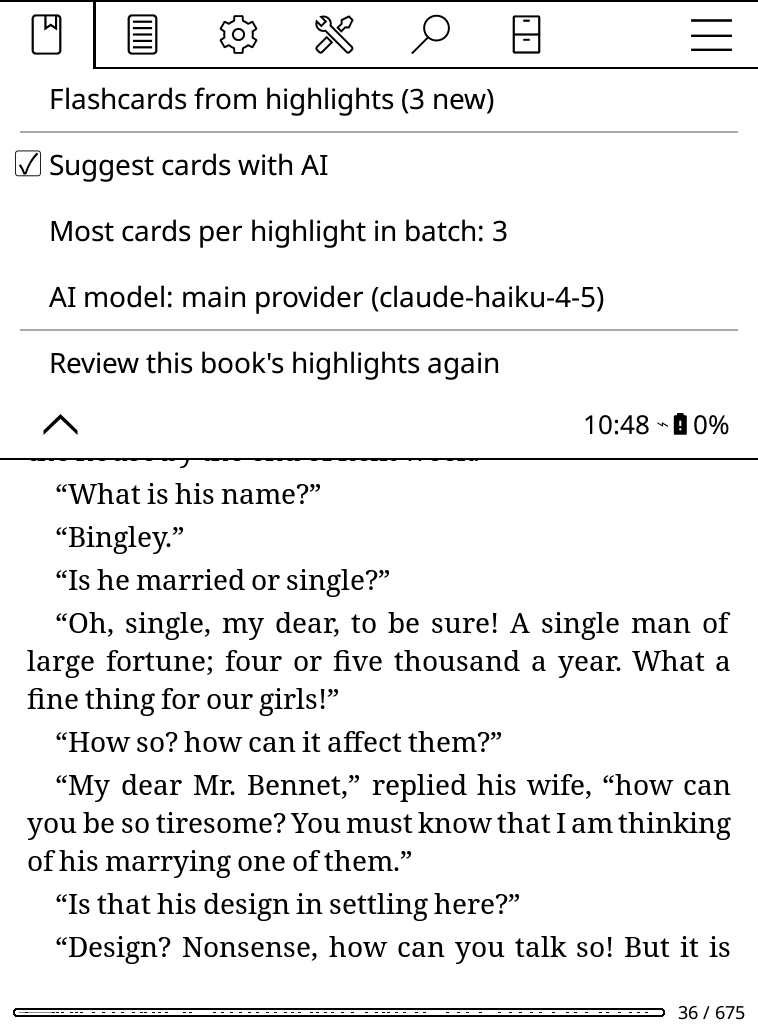
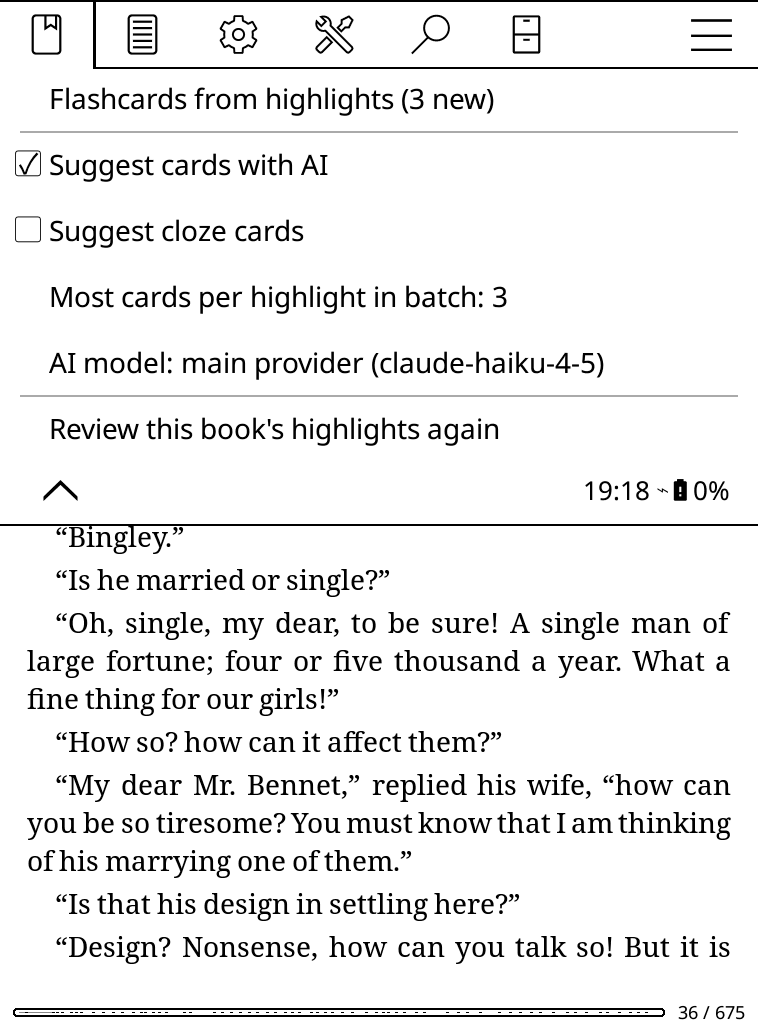
docs: rewrite README around the read-to-study loop, add hero image

diff --git a/README.md b/README.md
@@ -1,15 +1,123 @@
 # pbAnki
 
-**Anki flashcards on PocketBook e-readers, designed for e-ink, with cards you make while reading in KOReader.**
+**Turn what you read into flashcards, and study them on the same e-reader.**
 
-This is a fork of [ananyatimalsina/pbanki](https://github.com/ananyatimalsina/pbanki), which got Anki's real scheduler running on PocketBook. This fork rebuilds the reading and studying experience around the e-ink screen, adds a way to turn book highlights into cards, and puts the codebase on a tested, documented footing.
+pbAnki is two pieces that work together on a PocketBook e-reader. A KOReader plugin turns your highlights into flashcards, with an AI writing them for you if you want. The pbAnki app is Anki, rebuilt for e-ink, where you study those cards with Anki's real scheduler. Everything syncs with AnkiWeb, so the same cards show up in Anki on your phone and computer.
 
-Developed and tested on a **PocketBook Verse (PB629)**, firmware 6.11. Every screenshot below is rendered at that screen's exact resolution (758 × 1024, 16 shades of grey) by the emulator included in this repo, and the KOReader ones by KOReader itself running headless.
+<p align="center"><img src="docs/screenshots/hero.png" alt="Four screens: highlight a passage in KOReader, the AI suggests two cards, study one in pbAnki, then see the passage it came from"></p>
+
+Most people who read seriously have the same problem. You highlight a passage because it matters, and a month later you can't remember what it said. Spaced repetition fixes that, but writing cards is slow, and doing it on a phone or laptop means leaving the book. With pbAnki you never leave the reader. Highlight, tap **Create flashcard**, keep the cards you like, and keep reading. Next time you open pbAnki, they're waiting in a deck named after the book, and each one can show you the passage it came from.
+
+Built and tested on a **PocketBook Verse (PB629)**, firmware 6.11. Every screenshot here is a real render at that screen's resolution (758 × 1024, 16 shades of grey): the app's from the emulator in this repo, and the plugin's from KOReader itself running headless.
+
+pbAnki started as a fork of [ananyatimalsina/pbanki](https://github.com/ananyatimalsina/pbanki), which got Anki's scheduler running on PocketBook. This fork rebuilds the study screens for e-ink, adds the KOReader plugin and tests, and fixes sync.
+
+## Contents
+
+- [Part 1: making cards in KOReader](#part-1-making-cards-in-koreader)
+- [Part 2: studying in pbAnki](#part-2-studying-in-pbanki)
+- [Install on a PocketBook](#install-on-a-pocketbook)
+- [Building](#building)
+
+## Part 1: making cards in KOReader
+
+### From one highlight
+
+Select a passage in [KOReader](https://koreader.rocks) and tap **Create flashcard**. KOReader saves it as a normal highlight, asks how many cards you want, and opens the card editor. Tap a card to change it, ✕ to drop it, or **+ Card** to write your own.
+
+<table>
+  <tr>
+    <td><img src="docs/screenshots/koreader/01_highlight_menu.png" width="240" alt="KOReader's highlight menu with a Create flashcard button"></td>
+    <td><img src="docs/screenshots/koreader/02_card_count.png" width="240" alt="Choosing how many cards to suggest"></td>
+    <td><img src="docs/screenshots/koreader/04_suggested.png" width="240" alt="The card editor with two AI-suggested cards"></td>
+  </tr>
+  <tr>
+    <td>Highlight, then Create flashcard.</td>
+    <td>Pick how many cards (1 by default).</td>
+    <td>The AI's suggestions, ready to edit or save.</td>
+  </tr>
+</table>
+
+### An AI that writes cards the way you do
+
+Suggestions come from the [AI Assistant](https://github.com/omer-faruq/assistant.koplugin) plugin, using whichever model you choose. The prompt is tuned for good flashcards. Questions are short and specific, answers are a few words, each card asks about something different, and a list in the text becomes one card that asks for the list.
+
+The AI reads more than the highlight. It sees the book, the chapter, about 150 words on each side of the passage, and the note you left on the highlight, which steers what it asks about. It also sees the last cards you saved from the same book, including how you rewrote its earlier suggestions, and copies your style. Tap **Suggest more** to add up to 10 more cards below the ones you have. It avoids repeating what you kept and learns from the ones you removed.
+
+### A whole book's highlights in one sitting
+
+If you'd rather keep reading and make cards later, highlight as usual. Then open **Tools → pbAnki flashcards → Flashcards from highlights**. The plugin walks through every highlight you haven't reviewed yet, one screen each. Save the cards or skip the highlight. Here the AI decides how many cards each highlight deserves: one for a focused passage, more for a dense one, up to a limit you set. The next highlight's suggestions load in the background while you work on the current one, so you rarely wait.
+
+<table>
+  <tr>
+    <td><img src="docs/screenshots/koreader/09_menu.png" width="240" alt="The pbAnki flashcards menu in KOReader"></td>
+    <td><img src="docs/screenshots/koreader/10_batch_first.png" width="240" alt="Flashcards from highlights: highlight 1 of 3 with suggestions"></td>
+    <td><img src="docs/screenshots/koreader/14_batch_done.png" width="240" alt="All highlights reviewed, with the number of cards saved"></td>
+  </tr>
+  <tr>
+    <td>The plugin's menu.</td>
+    <td>Highlight 1 of 3, with its cards.</td>
+    <td>Done: every highlight reviewed.</td>
+  </tr>
+</table>
+
+The plugin remembers which highlights you've reviewed in the book's own KOReader settings, so each one comes up once. The menu can make them all new again.
+
+### Cloze cards
+
+A cloze card is a sentence with a gap: "A single man of large fortune must be in want of a [...]". Tick **Cloze** when you ask for suggestions and the AI writes these instead of questions. For batch mode, turn on **Suggest cloze cards** in the menu.
+
+You can make them by hand too. On the card's front, the **{{…}} Cloze** button opens a gap at the cursor. Type the hidden words and tap it again to close the gap. In pbAnki they become regular Anki cloze cards that still remember their book and passage.
+
+<table>
+  <tr>
+    <td><img src="docs/screenshots/koreader/20_cloze_on.png" width="240" alt="The Cards to suggest dialog with Cloze ticked"></td>
+    <td><img src="docs/screenshots/koreader/23_cloze_button_closed.png" width="240" alt="Writing a card front with the Cloze button"></td>
+    <td><img src="docs/screenshots/koreader/25_cloze_cards.png" width="240" alt="Cloze cards in the card editor, hidden parts in brackets"></td>
+  </tr>
+  <tr>
+    <td>Tick Cloze before you ask.</td>
+    <td>The Cloze button writes the marks for you.</td>
+    <td>AI and hand-written cloze cards together.</td>
+  </tr>
+</table>
+
+### Offline, or without AI
+
+Everything works without AI. Turn suggestions off (in flight mode, say) and the editor opens straight onto a blank card: the front on one full screen with a large keyboard, then the back on the next.
+
+<table>
+  <tr>
+    <td><img src="docs/screenshots/koreader/16_ai_off.png" width="240" alt="Writing a card's front by hand"></td>
+    <td><img src="docs/screenshots/koreader/17_ai_off_back.png" width="240" alt="Writing the card's back, with the front shown above"></td>
+  </tr>
+</table>
+
+### From KOReader to pbAnki
+
+Saved cards go into a small inbox file. Next time pbAnki opens, it files them under **KOReader**, one sub-deck per book, such as `KOReader::Pride and Prejudice`. Study the KOReader deck to mix every book, or open one book's deck. Each card keeps the full highlighted passage, the book, author, chapter and page, and the **Context** button on the answer shows them.
+
+<table>
+  <tr>
+    <td><img src="docs/screenshots/decks_koreader.png" width="240" alt="The KOReader deck with a sub-deck for Pride and Prejudice"></td>
+    <td><img src="docs/screenshots/koreader_answer.png" width="240" alt="A KOReader card's answer, with a Context button"></td>
+    <td><img src="docs/screenshots/context.png" width="240" alt="The context screen: the quote, then book, author, chapter and page"></td>
+  </tr>
+  <tr>
+    <td>One deck per book.</td>
+    <td>A card from KOReader.</td>
+    <td>Context: where it came from.</td>
+  </tr>
+</table>
+
+## Part 2: studying in pbAnki
+
+pbAnki runs Anki's own Rust backend, so scheduling, deck options and sync behave as they do in desktop Anki. The screens are new and drawn for a 6-inch e-ink panel.
 
 <table>
   <tr>
     <th>Before</th>
-    <th>This fork</th>
+    <th>pbAnki now</th>
   </tr>
   <tr>
     <td><img src="docs/screenshots/before/answer.png" width="300" alt="Original answer screen: question and answer run together and the Easy button is cut off"></td>
@@ -17,16 +125,14 @@ Developed and tested on a **PocketBook Verse (PB629)**, firmware 6.11. Every scr
   </tr>
 </table>
 
-## What's different in this fork
+### Text sized for e-ink
 
-### Text made for a 6-inch e-ink screen
-
-The original UI ran at three times the intended size on the device, so about four short lines fit on a card and long cards were split across mostly empty pages. Text is now set in [JetBrains Mono](https://www.jetbrains.com/lp/mono/) at 20 px (adjustable from 12 to 40 px in Settings). Because every character has the same width, pbAnki works out exactly how much text fits, and pages are full: 59 × 24 characters at the default size.
+The original UI rendered at three times the intended size, so about four short lines fit on a card and long cards spread over mostly empty pages. Text is now set in [JetBrains Mono](https://www.jetbrains.com/lp/mono/) at 20 px, adjustable from 12 to 40 px in Settings. Every character has the same width, which lets pbAnki work out exactly how much fits on a page: 59 × 24 characters at the default size.
 
 <table>
   <tr>
     <th>Before</th>
-    <th>This fork</th>
+    <th>pbAnki now</th>
   </tr>
   <tr>
     <td><img src="docs/screenshots/before/question.png" width="300" alt="Original question screen"></td>
@@ -38,106 +144,43 @@ The original UI ran at three times the intended size on the device, so about fou
   </tr>
 </table>
 
-### Cards that look like Anki cards
+### Cards that keep their formatting
 
-The original stripped every card down to plain text, so the question and answer ran together ("What is the capital of France? Paris") and line breaks disappeared ("novelPride and Prejudice"). pbAnki now lays out the card's HTML: bold, italic, line breaks, paragraphs, lists, and the divider between front and back. Cloze deletions highlight the active blank. Cards are centred vertically, and the answer opens on the page where the back begins.
+The original stripped cards to plain text. Question and answer ran together ("What is the capital of France? Paris") and line breaks vanished ("novelPride and Prejudice"). pbAnki lays out the card's HTML, keeping bold, italic, line breaks, paragraphs, lists and the divider between front and back. Cloze gaps are bold. Cards sit in the middle of the screen, and the answer opens on the page where the back begins.
 
 <table>
   <tr>
     <td><img src="docs/screenshots/formatting_answer.png" width="240" alt="Bold, italic and a line break preserved"></td>
-    <td><img src="docs/screenshots/cloze_question.png" width="240" alt="Cloze card with the active blank in bold"></td>
+    <td><img src="docs/screenshots/cloze_question.png" width="240" alt="Cloze card with the active gap in bold"></td>
     <td><img src="docs/screenshots/cloze_answer.png" width="240" alt="Cloze answer with the revealed word in bold"></td>
-  </tr>
-</table>
-
-### Make cards while you read, in KOReader
-
-Highlight a passage in [KOReader](https://koreader.rocks) and tap **Create flashcard**. The passage is saved as a normal highlight and a card editor opens. Or keep reading and highlighting, then pick **Flashcards from highlights** in the Tools menu to turn the new highlights into cards one after another, skipping the ones you don't want. Each highlight is offered once; the plugin remembers which ones you've reviewed in the book's own KOReader settings.
-
-With the [AI Assistant](https://github.com/omer-faruq/assistant.koplugin) plugin installed, the editor opens with suggested cards: short questions with short answers, each asking something different about the highlight. While reading, you choose how many cards to ask for (1 by default). In batch mode the AI decides: one card for a focused highlight, more for a rich one, up to a limit you set. The AI sees the book, chapter, the text around the highlight and your note on it; the note steers which ideas it picks and how it asks. It also sees the last cards you saved from the book, including how you rewrote its suggestions, and writes new ones the same way. Edit them, drop them, or tap **Suggest more** to add more below them (up to 10 at a time) and keep the ones you like; long lists split into pages. Suggest more learns from what you did: it writes in the style of the cards you kept, follows the way you rewrote any of its cards, and avoids cards like the ones you removed. AI suggestions can be turned off, for example in flight mode: you then write the card yourself, the front on one full screen and the back on the next.
-
-<table>
-  <tr>
-    <td><img src="docs/screenshots/koreader/01_highlight_menu.png" width="240" alt="KOReader's highlight menu with a Create flashcard button"></td>
-    <td><img src="docs/screenshots/koreader/04_suggested.png" width="240" alt="The card editor with two AI-suggested cards"></td>
-    <td><img src="docs/screenshots/koreader/10_batch_first.png" width="240" alt="Flashcards from highlights: highlight 1 of 3 with suggestions"></td>
-  </tr>
-</table>
-
-Cards wait in an inbox file until pbAnki next opens, then land in a sub-deck per book under **KOReader**, such as `KOReader::Pride and Prejudice`. Study the KOReader deck to review every book at once, or open one book's deck. Each card keeps its **context**: the full highlighted passage, book, author, chapter and page. A **Context** button on the answer side shows it.
-
-Cards can also be **cloze** cards, a sentence with the answer hidden: "A single man of large fortune must be in want of a [...]". Tick **Cloze** when asking the AI for suggestions (or turn on *Suggest cloze cards* in the menu for Flashcards from highlights), or write one yourself: the **{{…}} Cloze** button on the card front opens a hidden part at the cursor, and a second tap closes it. pbAnki files them under a cloze note type that keeps the same context.
-
-<table>
-  <tr>
-    <td><img src="docs/screenshots/koreader/20_cloze_on.png" width="240" alt="The Cards to suggest dialog with Cloze ticked"></td>
-    <td><img src="docs/screenshots/koreader/23_cloze_button_closed.png" width="240" alt="Writing a card front with the Cloze button"></td>
-    <td><img src="docs/screenshots/koreader/25_cloze_cards.png" width="240" alt="Cloze cards in the card editor, hidden parts in brackets"></td>
-  </tr>
-</table>
-
-<table>
-  <tr>
-    <td><img src="docs/screenshots/koreader_question.png" width="240" alt="A question written in KOReader"></td>
-    <td><img src="docs/screenshots/koreader_answer.png" width="240" alt="The answer, with a Context button"></td>
-    <td><img src="docs/screenshots/context.png" width="240" alt="The context screen: the quote, then book, author, chapter and page"></td>
-    <td><img src="docs/screenshots/decks_koreader.png" width="240" alt="The KOReader deck with a sub-deck for Pride and Prejudice"></td>
   </tr>
 </table>
 
 ### A deck list you can read at a glance
 
-Counts are labelled, due cards are bold, zeros are grey, and every row is a full-width tap target. Collapsing a deck hides all of its sub-decks and is saved in the collection, as in desktop Anki. **Everything**, at the top, studies every deck: it works through the top-level decks in list order, each with its own daily limits.
+Columns are labelled, due counts are bold and zeros are grey. Every row is a full-width tap target. Collapsing a deck hides its sub-decks and is saved in the collection, as in desktop Anki. **Everything**, at the top, studies all your decks in one session, going through the top-level decks in list order with each deck's own daily limits.
 
 <table>
   <tr>
     <th>Before</th>
-    <th>This fork</th>
+    <th>pbAnki now</th>
+    <th>Studying Everything</th>
   </tr>
   <tr>
-    <td><img src="docs/screenshots/before/decks_expanded.png" width="300" alt="Original deck list"></td>
-    <td><img src="docs/screenshots/decks_expanded.png" width="300" alt="New deck list with labelled columns and an Everything row"></td>
-  </tr>
-</table>
-
-### Settings on the device
-
-Text size has a live preview. The AnkiWeb login is typed with the PocketBook's own keyboard and must pass **Validate** (a real login to AnkiWeb) before it can be saved; a wrong password is caught on the spot instead of at the first sync.
-
-<table>
-  <tr>
-    <td><img src="docs/screenshots/settings.png" width="240" alt="Settings screen"></td>
-    <td><img src="docs/screenshots/login_failed.png" width="240" alt="Validate failed: AnkiWeb rejected the username or password"></td>
-    <td><img src="docs/screenshots/login_passed.png" width="240" alt="Validate passed: Save is enabled"></td>
-  </tr>
-</table>
-
-### Sync with AnkiWeb
-
-Tap **Sync** on the deck list, or turn on **Sync on startup** in Settings. Wi-Fi is turned on if it's off, and a status bar shows each step: turning on Wi-Fi, logging in, syncing, then the result. Cards made in KOReader are imported first, so they go up in the same sync. The deck list can't be opened while a sync runs.
-
-When AnkiWeb can't merge the two collections (after a reset on another device, for example), pbAnki asks which one to keep and confirms before replacing anything. Before AnkiWeb's collection replaces this one, the reader's collection is saved to `collection/backups/before-download-<time>.colpkg`, which desktop Anki can import. Media files aren't synced.
-
-<table>
-  <tr>
-    <td><img src="docs/screenshots/sync_running.png" width="240" alt="Syncing with AnkiWeb"></td>
-    <td><img src="docs/screenshots/sync_done.png" width="240" alt="Synced with AnkiWeb"></td>
-    <td><img src="docs/screenshots/sync_full.png" width="240" alt="AnkiWeb asks which collection to keep"></td>
+    <td><img src="docs/screenshots/before/decks_expanded.png" width="240" alt="Original deck list"></td>
+    <td><img src="docs/screenshots/decks_expanded.png" width="240" alt="New deck list with labelled columns and an Everything row"></td>
+    <td><img src="docs/screenshots/everything.png" width="240" alt="Studying Everything, with the total of all decks"></td>
   </tr>
 </table>
 
 ### Studying
 
-- Tap anywhere on the question to reveal the answer, and tap the answer to rate it **Good**. On an answer longer than one page, a tap turns the page first.
-- Rated too fast? Swipe from right to left, or press the **prev** button, to undo the last rating or suspension and see that card's answer again.
-- The **next** button does the same as a tap: next page, reveal, then Good. **Prev** goes back a page, or undoes on a card's first page.
-- Swipe up and down to turn pages. Again, Hard and Easy are on the on-screen buttons.
-- **Suspend** removes an unwanted card from review, as in desktop Anki. Undo brings it back.
-- **Edit** fixes a card while you study it: the front on one full screen, then the back on the next. Tap the text to change it with the PocketBook keyboard, then **Save**. The card keeps its place and its schedule. Text is edited as plain text with line breaks; a side with formatting (bold, images) says so, and loses it only if you change that side.
-- Buttons are outlined and invert while pressed, which reads clearly on e-ink.
-- When a deck is done, a "Congratulations!" screen appears with a way back to the deck list.
-- Type-in cards are skipped (buried until tomorrow), since typing on e-ink is no fun.
-- If the collection can't be opened, pbAnki says why instead of quitting.
+- Tap the question to see the answer, then tap the answer to rate it Good. Again, Hard and Easy have their own buttons. On a long answer, a tap turns the page first.
+- Rated too fast? Swipe from right to left, or press the **prev** button, to undo. Undo also brings back a card you just suspended.
+- The **next** button does what a tap does. **Prev** turns back a page, or undoes on a card's first page.
+- **Suspend** takes a card out of review. **Edit** fixes a typo without losing the card's schedule. You get the front on one screen and the back on the next, typed with the PocketBook keyboard.
+- Buttons are outlined and invert while pressed, which shows clearly on e-ink.
+- Type-in cards are skipped (buried until tomorrow), because typing answers on e-ink is no fun.
 
 <table>
   <tr>
@@ -147,18 +190,40 @@ When AnkiWeb can't merge the two collections (after a reset on another device, f
   </tr>
 </table>
 
+### Sync with AnkiWeb
+
+Tap **Sync** on the deck list, or turn on **Sync on startup**. pbAnki turns on Wi-Fi if it's off and shows each step in a status bar. Cards from KOReader are imported first, so they go up in the same sync and appear in Anki on your other devices.
+
+If AnkiWeb can't merge the two collections (after a reset on another device, for example), pbAnki asks which one to keep and confirms before replacing anything. Before AnkiWeb's copy replaces the reader's, the reader's collection is backed up to `collection/backups/before-download-<time>.colpkg`, which desktop Anki can import. Media files aren't synced yet.
+
+<table>
+  <tr>
+    <td><img src="docs/screenshots/sync_running.png" width="240" alt="Syncing with AnkiWeb"></td>
+    <td><img src="docs/screenshots/sync_done.png" width="240" alt="Synced with AnkiWeb"></td>
+    <td><img src="docs/screenshots/sync_full.png" width="240" alt="AnkiWeb asks which collection to keep"></td>
+  </tr>
+</table>
+
+### Settings
+
+Text size has a live preview. You type your AnkiWeb login on the PocketBook keyboard, and **Validate** tries it against AnkiWeb before you can save. A wrong password shows up right there, not at your first sync.
+
+<table>
+  <tr>
+    <td><img src="docs/screenshots/settings.png" width="240" alt="Settings screen"></td>
+    <td><img src="docs/screenshots/login_failed.png" width="240" alt="Validate failed: AnkiWeb rejected the username or password"></td>
+    <td><img src="docs/screenshots/login_passed.png" width="240" alt="Validate passed: Save is enabled"></td>
+  </tr>
+</table>
+
 ### Under the hood
 
-- **One Cargo workspace** with a single lock file, and the Anki dependency pinned to an exact commit instead of tracking its `main` branch.
-- **48 tests** (from none), covering card layout, config, the KOReader inbox and the study flow against real Anki collections.
-- **CI** runs formatting, Clippy, tests and the PocketBook cross-build on every push.
-- **Bug fixes** from the original:
-  - Sync could never log in with the default config (an empty token counted as a real one).
-  - Settings were always saved to the device path, even in the desktop build.
-  - The sync status got stuck after a failure.
-  - A page size of 0 crashed the app.
-- **Firmware 6.11 support:** the launcher works around the firmware refusing to load `libinkview.so`.
-- **No translations:** the UI is plain English, which keeps it small.
+- One Cargo workspace with a single lock file. The Anki dependency is pinned to an exact commit.
+- 67 Rust tests, covering card layout, config, the KOReader inbox and the study flow against real Anki collections, plus a spec for the plugin's card prompts. The original had none.
+- CI checks formatting, runs Clippy and the tests, and cross-builds for the PocketBook on every push.
+- Fixes to the original: sync could never log in with the default config (an empty token counted as a real one), settings were always saved to the device path, the sync status got stuck after a failure, and a page size of 0 crashed the app.
+- The launcher works around firmware 6.11 refusing to load `libinkview.so`.
+- If the collection can't be opened, pbAnki says why instead of quitting.
 
 ## Install on a PocketBook
 
@@ -178,7 +243,7 @@ Not ready yet. Firmware 6.x lists apps from `system/config/desktop/view.json`, a
 
 ### KOReader plugin
 
-Copy `koreader/pbanki.koplugin` to `applications/koreader/plugins/` and restart KOReader. Highlight text, then tap **Create flashcard**, or open **Tools → pbAnki flashcards → Flashcards from highlights**. The same menu turns AI suggestions on and off, sets the most cards the AI may write per highlight in batch mode (1 to 10, default 3), picks the AI model, and can make all of a book's highlights new again. Batch mode can also be put on a gesture.
+Copy `koreader/pbanki.koplugin` to `applications/koreader/plugins/` and restart KOReader. Highlight text, then tap **Create flashcard**, or open **Tools → pbAnki flashcards → Flashcards from highlights**. The same menu turns AI suggestions and cloze suggestions on and off, sets the most cards the AI may write per highlight in batch mode (1 to 10, default 3), picks the AI model, and can make all of a book's highlights new again. Batch mode can also be put on a gesture.
 
 Cards are queued in `applications/pbanki/inbox.jsonl` and imported when pbAnki starts or when you return to the deck list. If a line can't be imported, it is kept in `inbox.failed.jsonl` rather than dropped.
 
